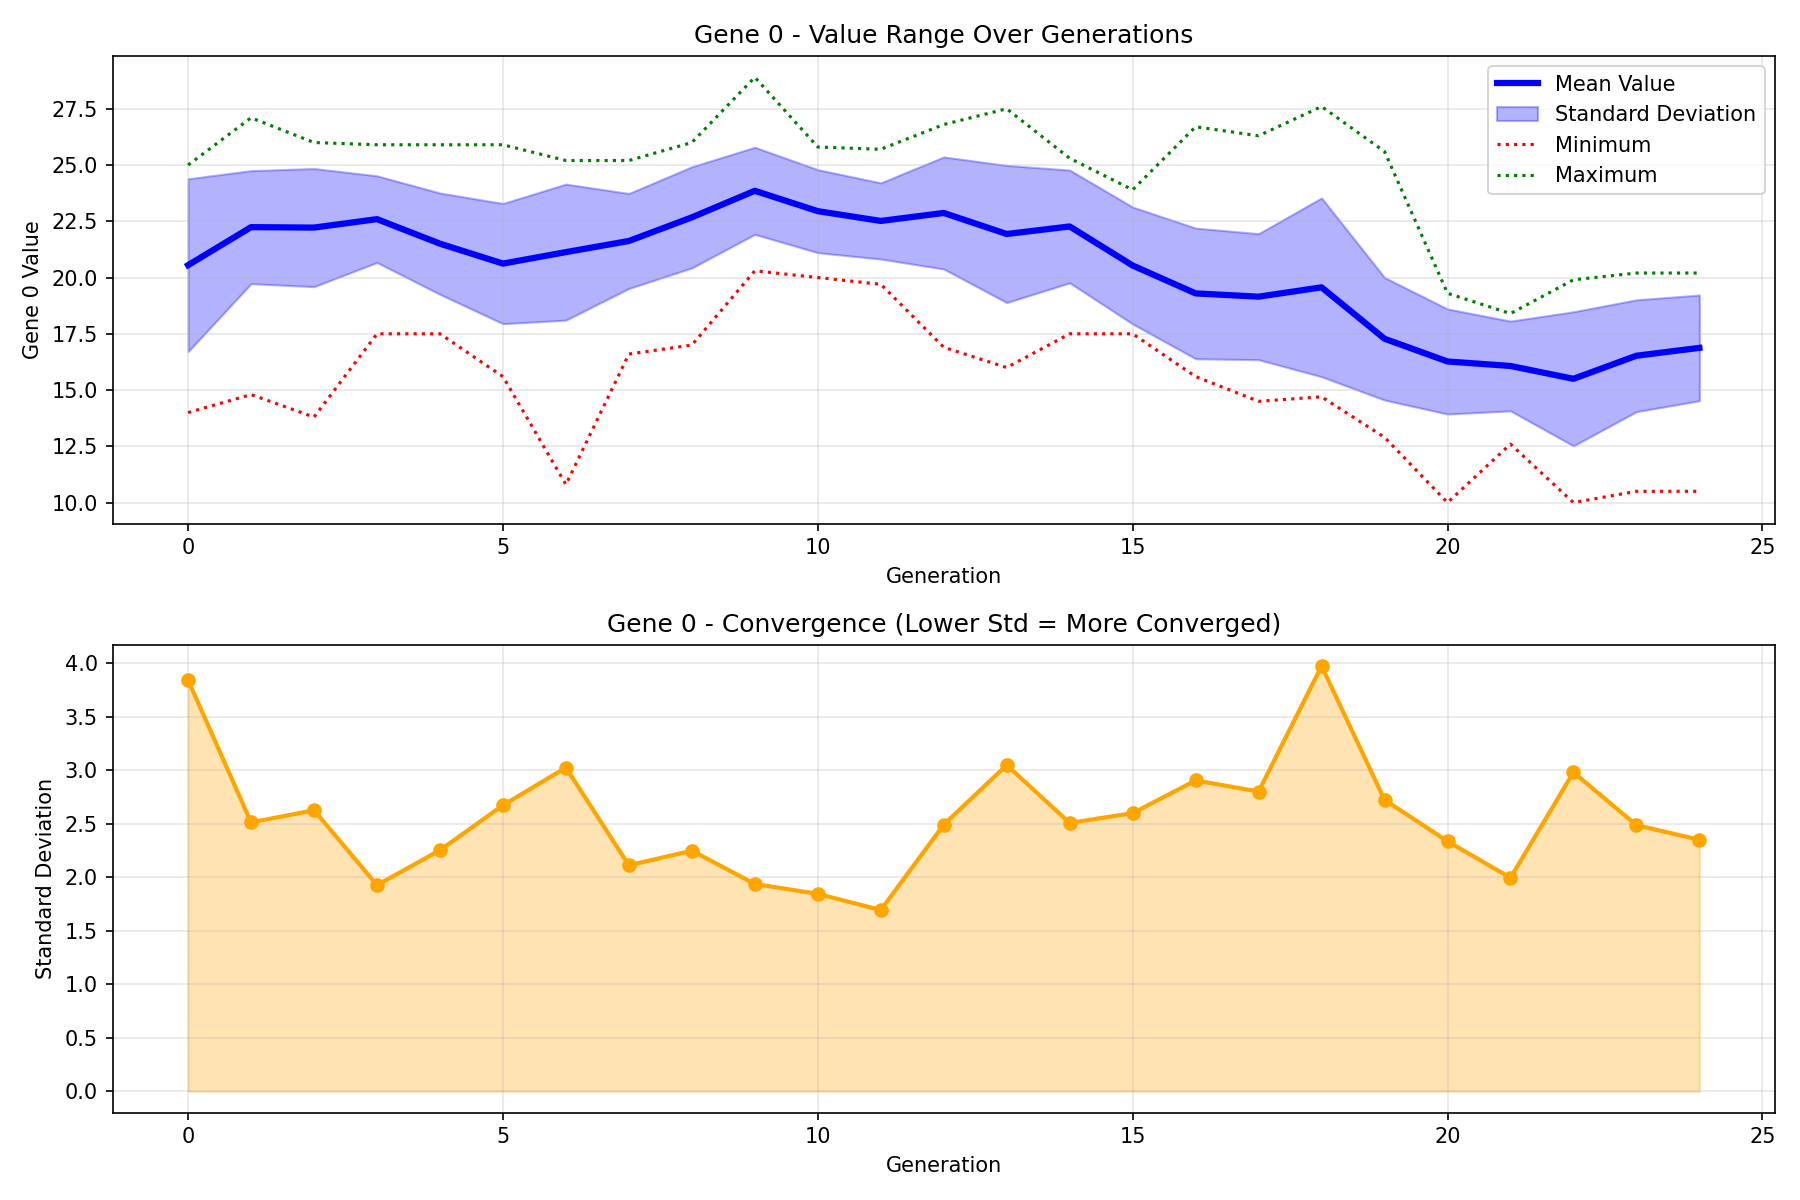
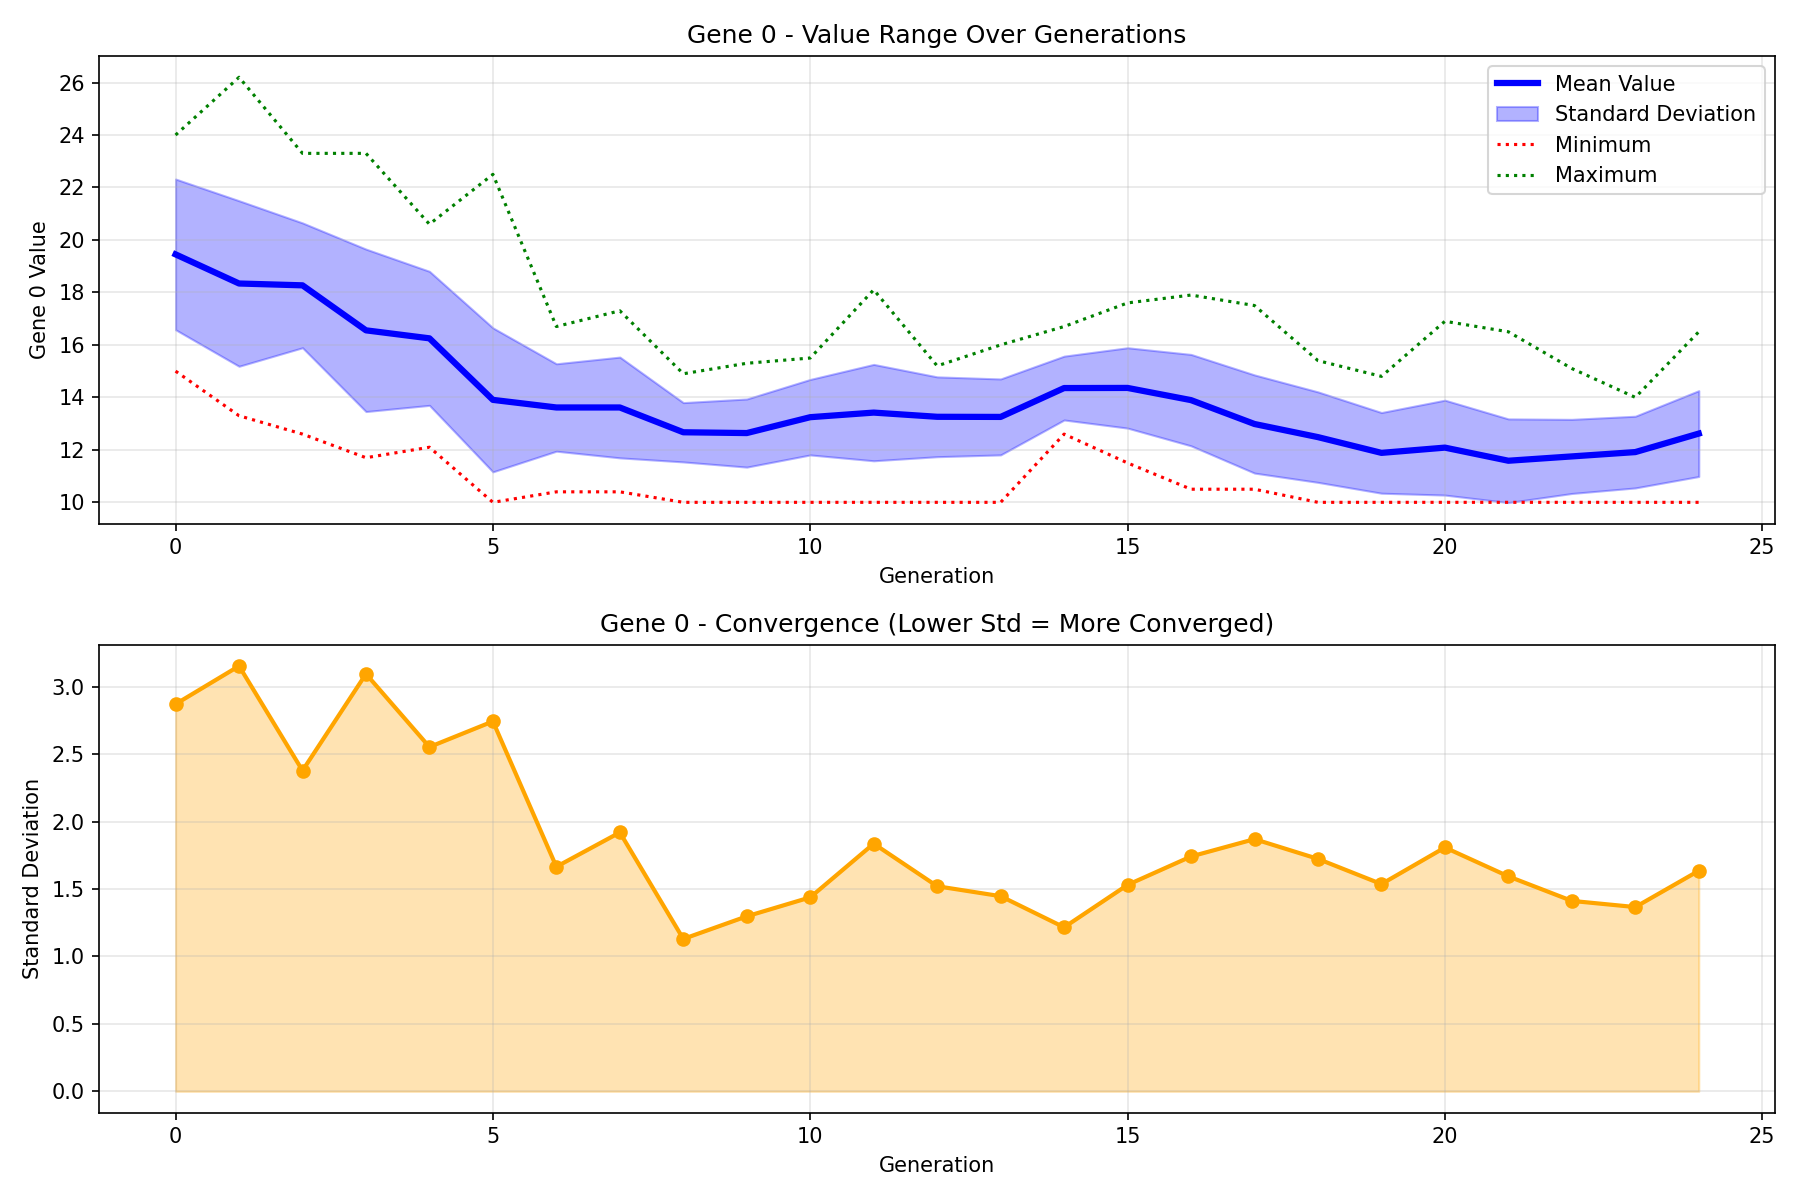
Final Version

diff --git a/utils/visualize.py b/utils/visualize.py
@@ -1,8 +1,8 @@
 from ga_visualizer import GAVisualizer
 
 output_path = "./output/results/result_1/"
-convergence_csv = "convergence_20251206_185116.csv"
-gene_statistics_csv = "gene_statistics_20251206_185116.csv"
+convergence_csv = "convergence_20251206_225904.csv"
+gene_statistics_csv = "gene_statistics_20251206_225904.csv"
 plot_output = "ga_plots/plots_1"
 
 # Visualize convergence data
